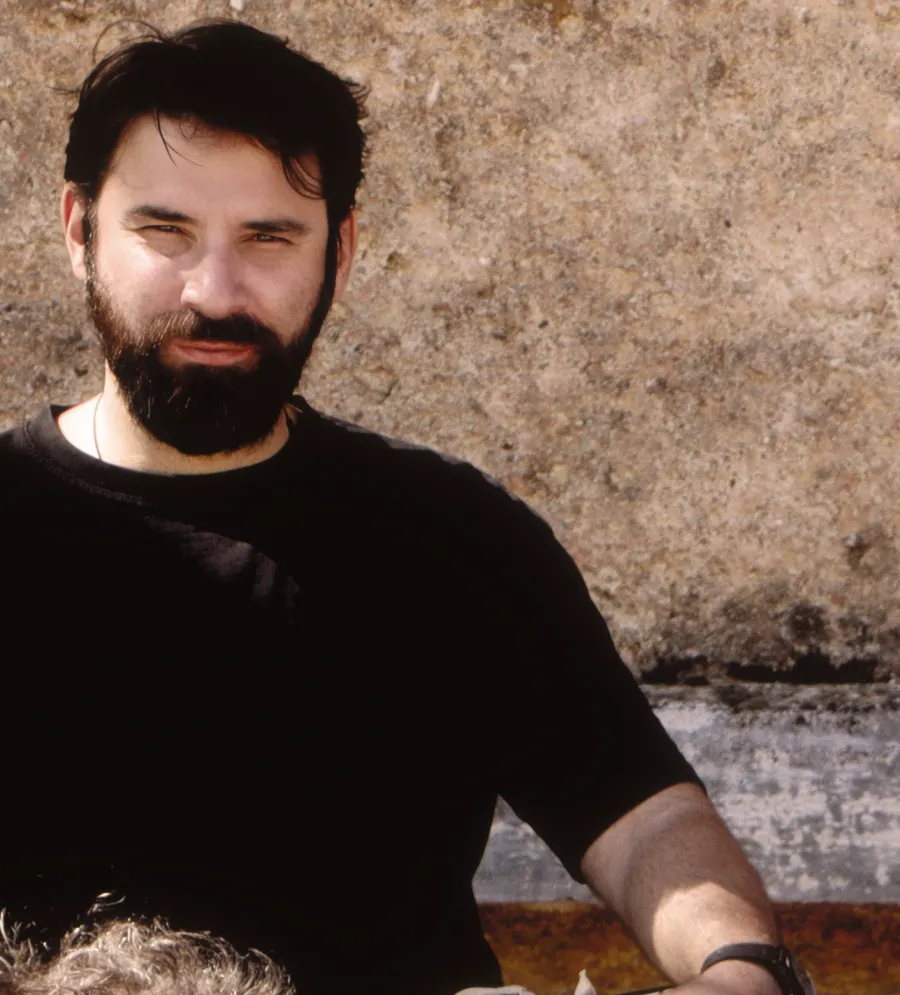
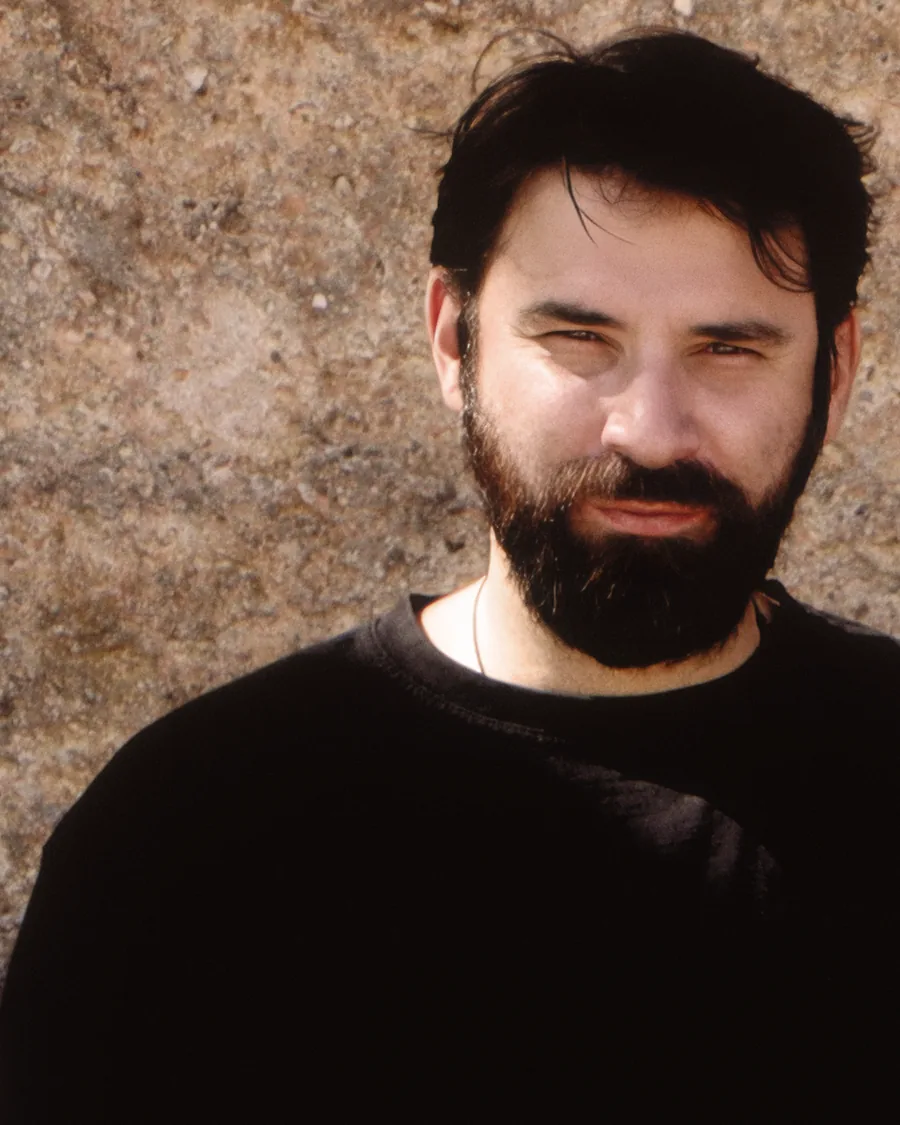
Tighten Iakovos’s portrait and drop the stray head from the frame.
Crop to a clean head-and-shoulders so the ντέφι card no longer shows Nikos’s hair.

diff --git a/src/data/content.ts b/src/data/content.ts
@@ -14,7 +14,7 @@ export const portrait = {
 export const members = [
   {
     id: 'defi',
-    image: '/images/band/members/defi.webp',
+    image: '/images/band/members/defi.webp?v=2',
     role: { el: 'Ντέφι', en: 'Frame drum' },
     name: { el: '', en: '' },
     bio: {

diff --git a/src/styles/global.css b/src/styles/global.css
@@ -569,6 +569,10 @@ a {
   object-position: center center;
 }
 
+.member-card[data-id="defi"] .member-photo img {
+  object-position: center 20%;
+}
+
 .member-card h3 {
   margin: 0;
   font-family: var(--serif);
